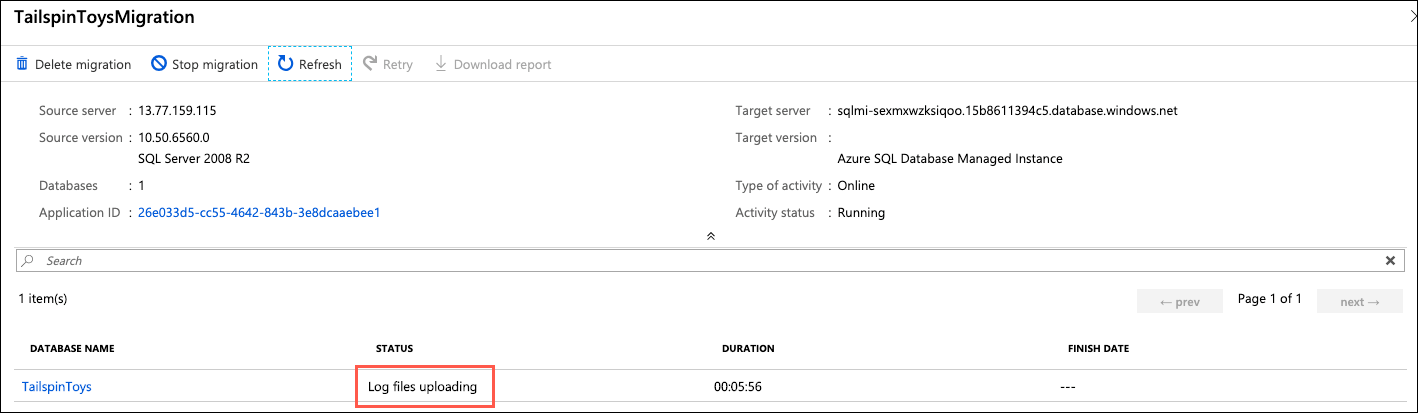
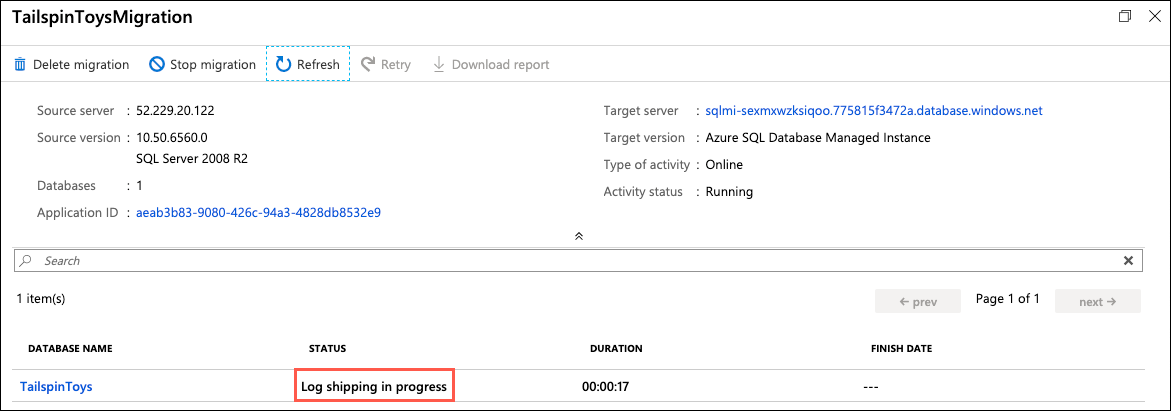
HOL exercise 3 updates.

diff --git a/Hands-on lab/HOL step-by-step - Migrating SQL databases to Azure.md b/Hands-on lab/HOL step-by-step - Migrating SQL databases to Azure.md
@@ -340,7 +340,7 @@ With one PaaS offering ruled out due to feature parity, you will now perform a s
 
 Duration: 60 minutes
 
-In this exercise, you will use the [Azure Database Migration Service](https://azure.microsoft.com/services/database-migration/) (DMS) to migrate the `TailspinToys` database from the on-premises SQL 2008 R2 database to SQL MI. Tailspin Toys mentioned the importance of their gamer information web application in driving revenue, so for this migration you will target the [Business Critical service tier](https://docs.microsoft.com/azure/sql-database/sql-database-managed-instance#managed-instance-service-tiers).
+In this exercise, you will use the [Azure Database Migration Service](https://azure.microsoft.com/services/database-migration/) (DMS) to migrate the `TailspinToys` database from the on-premises SQL 2008 R2 database to SQL MI. Tailspin Toys mentioned the importance of their gamer information web application in driving revenue, so for this migration an online migration will be performed to reduce downtime. You will also target the [Business Critical service tier](https://docs.microsoft.com/azure/sql-database/sql-database-managed-instance#managed-instance-service-tiers).
 
 > The Business Critical service tier is designed for business applications with the highest performance and high-availability (HA) requirements. To learn more, read the [Managed Instance service tiers documentation](https://docs.microsoft.com/azure/sql-database/sql-database-managed-instance#managed-instance-service-tiers).
 
@@ -403,9 +403,11 @@ In this task, you will use the SQL Server Configuration Manager to update the se
 
     ![In the list of SQL Server Services, the SQL Server (MSSQLSERVER) service is highlighted.](media/sql-server-service.png "SQL Server Services")
 
+7. Close the SQL Server Configuration Manager.
+
 ### Task 3: Create backup of TailspinToys database
 
-To perform online data migrations, DMS looks for backups and logs in the SMB shared backup folder on the source database server. In this task, you will create a backup of the `TailspinToys` database using SSMS, and write it to the SMB network share you created in the previous task. The backup file needs to include a checksum, so you will add that during the backup steps.
+To perform online data migrations, DMS looks for backups and logs in the SMB shared backup folder on the source database server. In this task, you will create a backup of the `TailspinToys` database using SSMS, and write it to the `\\SQLSERVER2008\dms-backups` SMB network share you created in a previous task. The backup file needs to include a checksum, so you will add that during the backup steps.
 
 1. On the SqlServer2008 VM, open **Microsoft SQL Server Management Studio 17** by entering "sql server" into the search bar in the Windows Start menu.
 
@@ -431,15 +433,15 @@ To perform online data migrations, DMS looks for backups and logs in the SMB sha
 
     ![The Browse button is highlighted in the Select Backup Destination dialog.](media/ssms-select-backup-destination.png "Select Backup Destination")
 
-7. In the Location Database Files dialog, select the `C:\dma-backups` folder, enter `TailspinToys.bak` into the File name field, and then select **OK**.
+7. In the Location Database Files dialog, select the `C:\dms-backups` folder, enter `TailspinToys.bak` into the File name field, and then select **OK**.
 
     ![In the Select the file pane, the C:\dms-backups folder is selected and highlighted and TailspinToys.bak is entered into the File name field.](media/ssms-locate-database-files.png "Location Database Files")
 
 8. Select **OK** to close the Select Backup Destination dialog.
 
-9. In the Back Up Database dialog, select the **Media Options** in the Select a page pane, and then set the following:
+9. In the Back Up Database dialog, select **Media Options** in the Select a page pane, and then set the following:
 
-    - Select **Back up to the existing media set** and then select **Overwrite all existing backup sets**
+    - Select **Back up to the existing media set** and then select **Overwrite all existing backup sets**.
     - Under Reliability, check the box for **Perform checksum before writing to media**. This is require by DMS when using the backup to restore the database to SQL MI.
 
     ![In the Back Up Database dialog, the Media Options page is selected, and Overwrite all existing backup sets and Perform checksum before writing to media are selected and highlighted.](media/ssms-back-up-database-media-options.png "Back Up Database")
@@ -472,7 +474,7 @@ In this task, you will use the Azure Cloud shell to retrieve the information nec
 
     ![In the Azure Cloud Shell dialog, a message is displayed that requesting a Cloud Shell succeeded, and the PS Azure prompt is displayed.](media/cloud-shell-ps-azure-prompt.png "Azure Cloud Shell")
 
-5. At the prompt, you will retrieve information about SQL MI in the hands-on-lab-SUFFIX resource group by entering the following PowerShell command, **replacing SUFFIX** with your unique identifier:
+5. At the prompt, you will retrieve information about SQL MI in the hands-on-lab-SUFFIX resource group by entering the following PowerShell command, **replacing SUFFIX** in the resource group name with your unique identifier:
 
     ```powershell
     az sql mi list --resource-group hands-on-lab-SUFFIX
@@ -482,10 +484,10 @@ In this task, you will use the Azure Cloud shell to retrieve the information nec
 
     ![The output from the az sql mi list command is displayed in the Cloud Shell, and the fullyQualifiedDomainName property and value are highlighted.](media/cloud-shell-az-sql-mi-list-output.png "Azure Cloud Shell")
 
-7. Next, you will enter a second command to retrieve the public IP address of the SqlSerer2008 VM, which you will use to connect to the database on that server. Enter the following PowerShell command, **replacing SUFFIX** with your unique identifier:
+7. Next, you will enter a second command to retrieve the public IP address of the SqlSerer2008 VM, which you will use to connect to the database on that server. Enter the following PowerShell command, **replacing SUFFIX** in the resource group name with your unique identifier:
 
     ```powershell
-    az vm list-ip-addresses -g hands-on-lab-SUFFIX -n SqlServer2008
+    az vm list-ip-addresses -g hands-on-lab-SUFFIX -n SqlServer2008 --output table
     ```
 
 8. Within the output of the command above, locate and copy the value of the `ipAddress` property within the `publicIpAddresses` object. Paste the value into a text editor, such as Notepad.exe, for later reference.
@@ -496,11 +498,11 @@ In this task, you will use the Azure Cloud shell to retrieve the information nec
 
 ### Task 5: Create a service principal
 
-In this task, you will use the Azure Cloud Shell to create an Azure Active Directory (Azure AD) application and service principal (SP) that will provide DMS access to Azure SQL MI. You will grant the SP permissions to the hands-on-lab-SUFFIX resource group.
+In this task, you will use the Azure Cloud Shell to create an Azure Active Directory (Azure AD) application and service principal (SP) that will provide DMS access to Azure SQL MI. You will grant the SP permissions to the hands-on-lab-SUFFIX resource group and your subscription.
 
 > **IMPORTANT**: You must have sufficient rights within your Azure AD tenant to create an Azure Active Directory application and service principal and assign roles on your subscription to complete this task.
 
-1. Next, you will issue a command to create a service principal named **tailspin-toys** and assign it contributor permissions to your **hands-on-lab-SUFFIX** resource group.
+1. Next at the Cloud Shell prompt, you will issue a command to create a service principal named **tailspin-toys** and assign it contributor permissions to your **hands-on-lab-SUFFIX** resource group.
 
 2. First, you need to retrieve your subscription ID. Enter the following at the Cloud Shell prompt:
 
@@ -567,8 +569,8 @@ In this task, you will create a new online data migration project in DMS for the
 
     - **Source SQL Server instance name**: Enter the IP address of your SqlServer2008 VM that you copied into a text editor in the previous task. For example, `13.66.228.107`.
     - **Authentication type**: Select SQL Authentication.
-    - **Username**: Enter **WorkshopUser**.
-    - **Password**: Enter **Password.1234567890**.
+    - **Username**: Enter **WorkshopUser**
+    - **Password**: Enter **Password.1234567890**
     - **Connection properties**: Check both Encrypt connection and Trust server certificate.
 
     ![The Migration Wizard Select source blade is displayed, with the values specified above entered into the appropriate fields.](media/dms-migration-wizard-select-source.png "Migration Wizard Select source")
@@ -596,7 +598,7 @@ In this task, you will create a new online data migration project in DMS for the
 
 11. On the Migration Wizard **Configure migration settings** blade, enter the following configuration:
 
-    - **Network share location**: Enter `\\SQLSERVER2008\dms-backups`. This is the path of the SMB network share you created during the before the hands-on lab exercises.
+    - **Network share location**: Enter `\\SQLSERVER2008\dms-backups`. This is the path of the SMB network share you created previously.
     - **Windows User Azure Database Migration Service impersonates to upload files to Azure Storage**: Enter `SQLSERVER2008\sqlmiuser`
     - **Password**: Enter Password.1234567890
     - **Subscription containing storage account**: Select the subscription you are using for this hands-on lab.
@@ -618,13 +620,13 @@ In this task, you will create a new online data migration project in DMS for the
 
     ![On the Migration job blade, the Refresh button is highlighted, and a status of Full backup uploading is displayed and highlighted.](media/dms-migration-wizard-status-running.png "Migration status")
 
-16. Continue selecting **Refresh** every 5-10 seconds, until you see the status change to **Log files uploading**. When that status appears, move on to the next task.
+16. Continue selecting **Refresh** every 5-10 seconds, until you see the status change to **Log shipping in progress**. When that status appears, move on to the next task.
 
-    ![In the migration monitoring window, a status of Log files uploading is highlighted.](media/dms-migration-wizard-status-log-files-uploading.png "Migration status")
+    ![In the migration monitoring window, a status of Log shipping in progress is highlighted.](media/dms-migration-wizard-status-log-files-uploading.png "Migration status")
 
 ### Task 7: Perform migration cutover
 
-Since you performed the migration as an "online data migration," the migration wizard will continue to monitor the SMB network share for newly added log files. This allows for any updates that happen on the source database to be captured until you cut over to the SQL MI database. In this task, you will add a record to one of the database tables, backup the logs, and complete the migration of the `TailspinToys` database by cutting over to the SQL MI database.
+Since you performed the migration as an "online data migration," the migration wizard will continue to monitor the SMB network share for newly added log backup files. This allows for any updates that happen on the source database to be captured until you cut over to the SQL MI database. In this task, you will add a record to one of the database tables, backup the logs, and complete the migration of the `TailspinToys` database by cutting over to the SQL MI database.
 
 1. In the migration status window in the Azure portal and select **TailspinToys** under database name to view further details about the database migration.
 
@@ -689,6 +691,8 @@ Since you performed the migration as an "online data migration," the migration w
 13. You will be given a progress bar below the Apply button in the Complete cutover dialog. When the migration is complete, you will see the status as **Completed**.
 
     ![A status of Completed is displayed in the Complete cutover dialog.](media/dms-migration-wizard-complete-cutover-completed.png "Migration Wizard")
+
+    > **NOTE**: If after a few minutes the progress bar has not moved, you can proceed to the next step, and monitor the cutover progress on the TailspinToysMigration blade by selecting refresh.
 
 14. Close the Complete cutover dialog by selecting the "X" in the upper right corner of the dialog, and do the same thing for the TailspinToys blade. This will return you to the TailspinToysMigration blade. Select **Refresh**, and you should see a status of **Completed** from the TailspinToys database.
 
@@ -801,7 +805,7 @@ In this task, you will create an RDP connection to the JumpBox VM, and then usin
 
     ![In the Extract Compressed Zip File dialog, C:\hands-on-lab is entered into the destination field.](media/extract-compressed-zip.png "Extract Compressed Zip")
 
-    > **IMPORTANT**: Ensure to use the path above, or something similarly short. Failure to do so could result in errors opening some of the files due to a log file path.
+    > **IMPORTANT**: Ensure to use the path above, or something similarly short. Failure to do so could result in errors opening some of the files due to a long file path.
 
 15. Open the `C:\hands-on-lab` folder, and then drill down to `Migrating-SQL-databases-to-Azure-master\Hands-on lab\lab-files`. In the `lab-files` folder, double-click `TailspinToysWeb.sln` to open the solution in Visual Studio.
 
